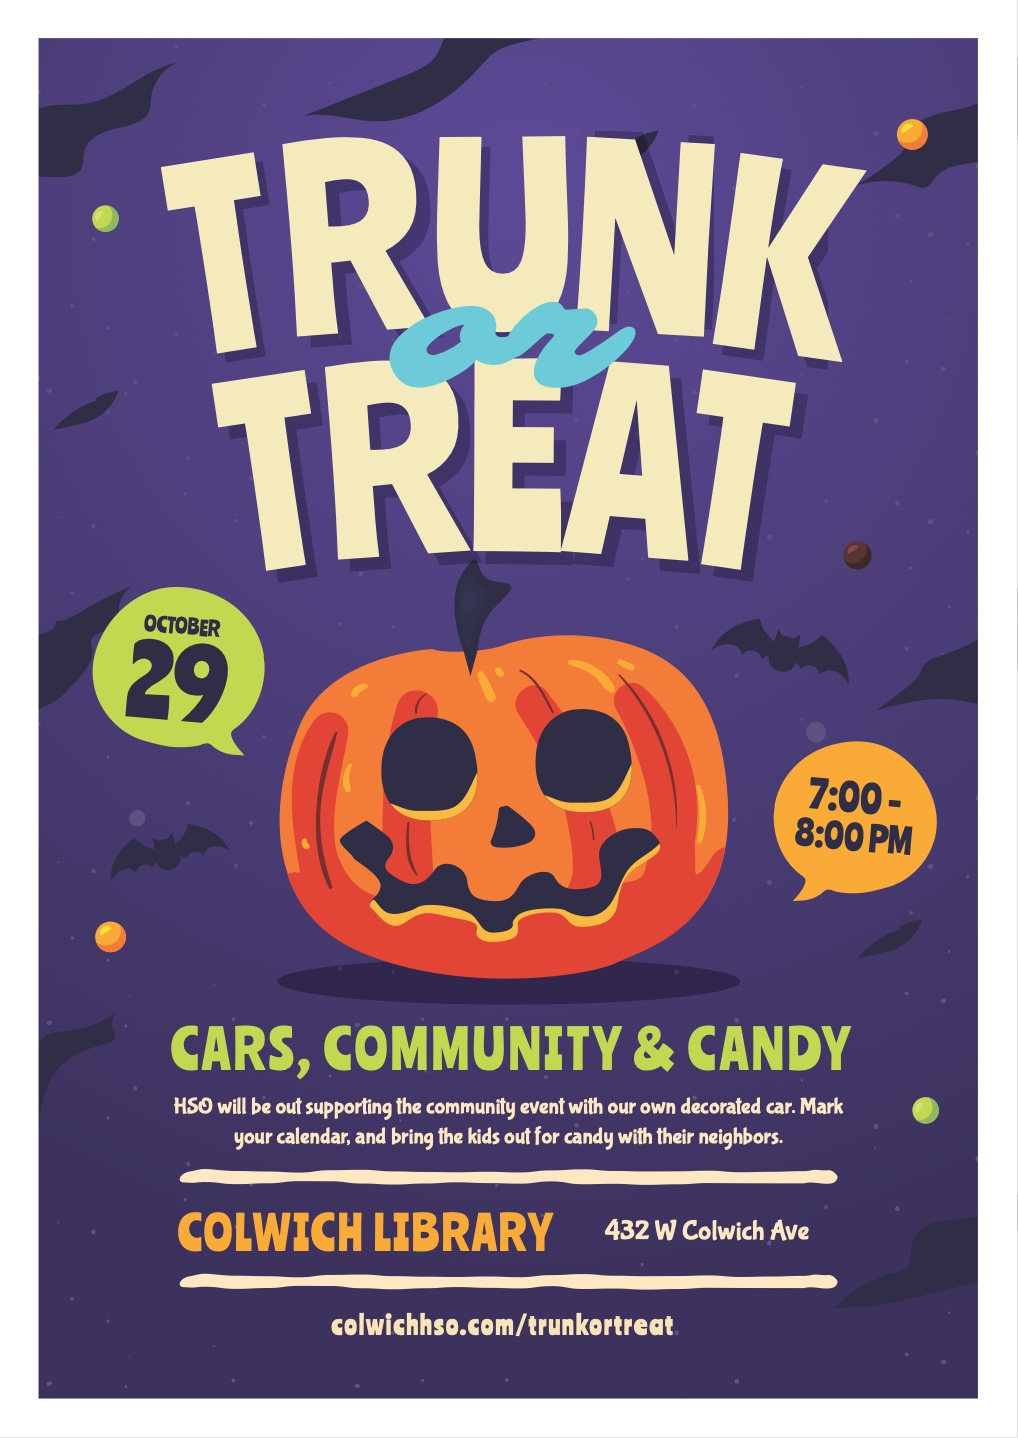
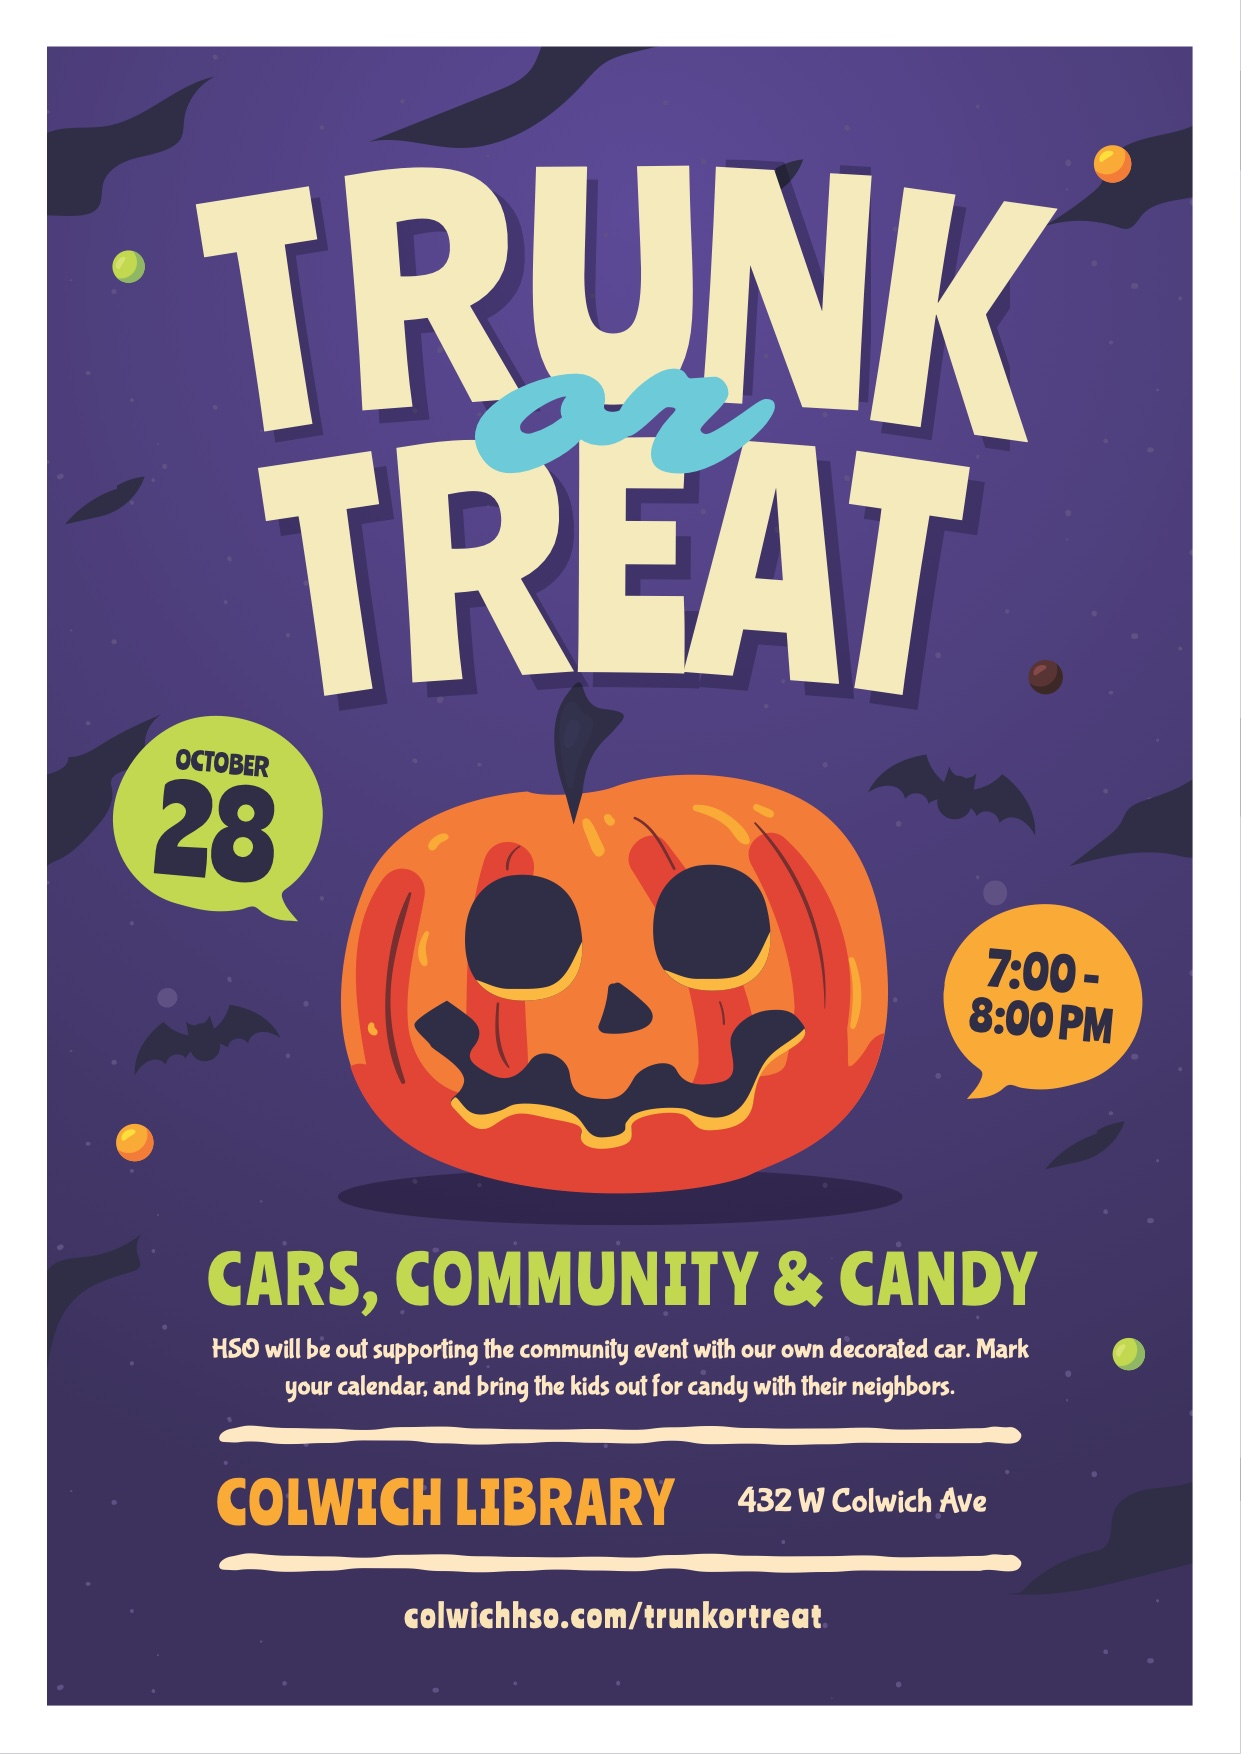
trunk or treat

diff --git a/content/events/trunkortreat.md b/content/events/trunkortreat.md
@@ -1,9 +1,9 @@
 ---
-page_status: comingsoon
+page_status: active
 title: Trunk or Treat 🎃
 description: HSO will head out and support the community this halloween.
 type: events
-event_date: 2023-10-29 1:00:00 +0000
+event_date: 2023-10-28 1:00:00 +0000
 url: "/trunkortreat"
 fullUrl: "https://colwichhso.com/trunkortreat"
 pageImage: "https://colwichhso.com/images/flyers/TrunkOrTreatOG.jpg"
